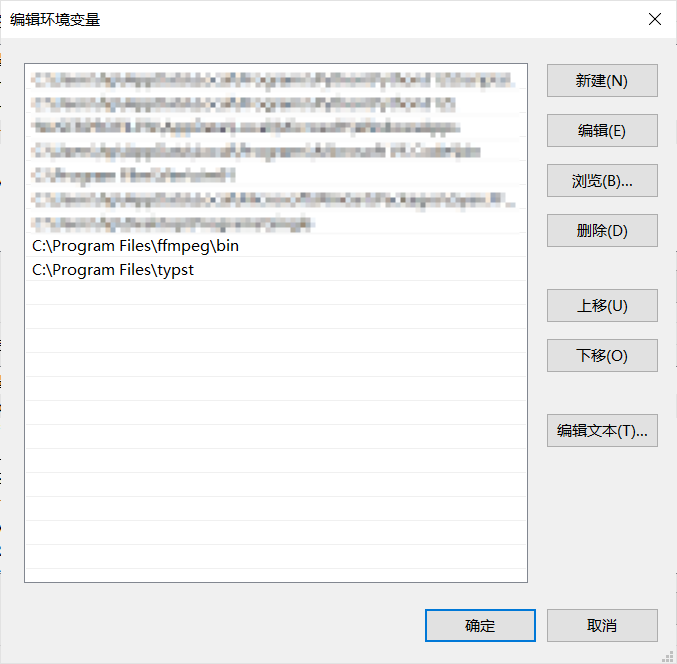
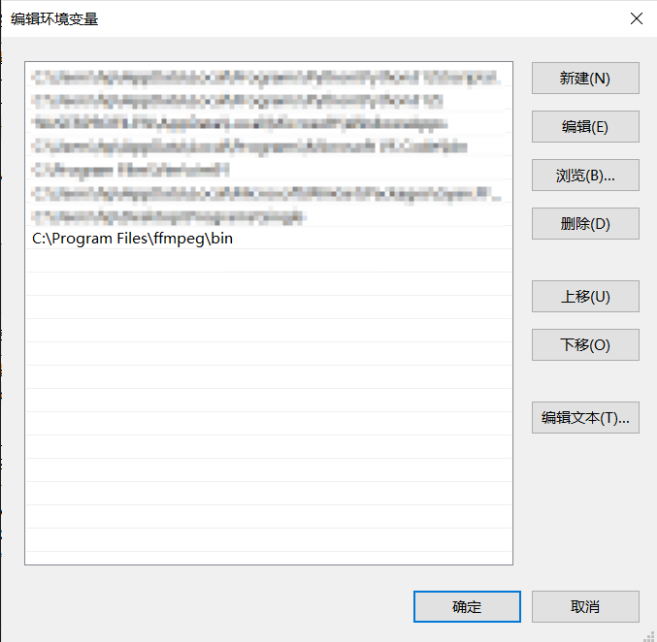
docs: update `installation.rst`

diff --git a/doc/source/installation.rst b/doc/source/installation.rst
@@ -123,11 +123,6 @@
 
     但值得注意的是，使用 GUI 界面预览动画效果并不依赖 FFmpeg，只有在最后导出视频时才需要 FFmpeg，因此你完全可以先上手体验 JAnim，等需要输出视频的时候再另行安装。
 
--   当需要书写公式或高级排版时，在 JAnim 中我们会用到 `Typst <https://github.com/typst/typst/releases>`_ 。
-
-    Typst 已经集成到 JAnim 的安装中了（基于 `typst-py <https://github.com/messense/typst-py>`_ 包），因此不需要另外安装。
-    但是，如果你有使用外部 Typst 可执行文件的需求，这里也提供了外部 Typst 的安装方法。
-
 -   对于 Linux，可能还需要另外安装 ``portaudio19-dev``，详见下方 Linux 标签页中的介绍。
 
 .. tabs::
@@ -138,7 +133,7 @@
 
         包管理器有很多选择，一般来说 Windows 应该自带一个 Winget，也可以使用 `Chocolatey <https://community.chocolatey.org/>`_ 或者 `Scoop <https://scoop.sh/>`_。三者只需安装一种，不过多装的话也没什么冲突。
 
-        安装完包管理器（或者自带 Winget），以 Winget 为例，按 ``Win + R`` 输入 ``powershell`` 或者在开始菜单中输入 powershell 打开 Powershell，输入 ``winget install typst`` 以及 ``winget install ffmpeg`` 即可完成安装。其他两种也是同理。
+        安装完包管理器（或者自带 Winget），以 Winget 为例，按 ``Win + R`` 输入 ``powershell`` 或者在开始菜单中输入 powershell 打开 Powershell，输入 ``winget install ffmpeg`` 即可完成安装。其他两种也是同理。
 
         .. tip::
 
@@ -150,15 +145,13 @@
 
         首先安装 FFmpeg。点击 https://www.gyan.dev/ffmpeg/builds/ffmpeg-git-full.7z 下载压缩包，解压，将 ``ffmpeg-`` 开头的文件夹移到适当的位置（例如 ``C:\\Program Files``），把该文件夹改名为 ``ffmpeg``。
 
-        然后安装 Typst。点击 https://github.com/typst/typst/releases/latest/download/typst-x86_64-pc-windows-msvc.zip 下载压缩包（如果网络错误可以反复尝试几次），解压，将 ``typst-x86_64-pc-windows-msvc`` 移到适当的位置，把该文件夹改名为 ``typst``。
-
-        最后添加环境变量。如果使用的是 Windows 11，可以按“Windows 徽标”键或者点击“开始”按钮，输入“环境变量”。（如果使用之前的版本可以右键此电脑 - 属性 - 高级系统设置）。点击“环境变量”，双击“用户变量”（或“系统变量”，任选其一）的“Path”，右键刚刚的 ``typst`` 文件夹并“复制文件地址”，在 Path 窗口（如下图）点击“新建”并把文件地址粘贴进去（注意不要带引号）。类似操作，将 ``ffmpeg\bin`` 也就是刚刚得到的 ffmpeg 下的 bin 文件夹的文件地址粘贴进去。
-
+        然后添加环境变量。如果使用的是 Windows 11，可以按“Windows 徽标”键或者点击“开始”按钮，输入“环境变量”。（如果使用之前的版本可以右键此电脑 - 属性 - 高级系统设置）。点击“环境变量”，双击“用户变量”（或“系统变量”，任选其一）的“Path”，右键刚刚的 ``ffmpeg`` 文件夹里的 ``bin`` 文件夹并“复制文件地址”，在 Path 窗口（如下图）点击“新建”并把文件地址粘贴进去（注意不要带引号）。
+        
         .. image:: /_static/images/envedit.png
             :align: center
             :scale: 80%
 
-        尝试一下有没有正确识别。在“开始”菜单输入并打开 PowerShell 或者 Cmd，运行 ``ffmpeg --version`` 和 ``typst --version``，输出版本号则安装成功。
+        尝试一下有没有正确识别。在“开始”菜单输入并打开 PowerShell 或者 Cmd，运行 ``ffmpeg --version`` ，输出版本号则安装成功。
 
     .. translatable-tab:: macOS
 
@@ -170,17 +163,13 @@
 
             /bin/bash -c "$(curl -fsSL https://raw.githubusercontent.com/Homebrew/install/HEAD/install.sh)"
 
-        接着便可以使用 Homebrew 安装 FFmpeg 和 Typst
+        接着便可以使用 Homebrew 安装 FFmpeg
 
         .. code-block:: bash
 
             # FFmpeg
             brew install ffmpeg
             ffmpeg --version    # 输出版本号则安装成功
-
-            # Typst
-            brew install typst
-            typst --version     # 输出版本号则安装成功
 
     .. translatable-tab:: Linux
 
@@ -194,16 +183,6 @@
             sudo apt update
             sudo apt install ffmpeg
             ffmpeg --version    # 输出版本号则安装成功
-
-        Typst 由于相对较新且未进入稳定版，直接从源代码仓库下载安装。
-
-        .. code-block:: bash
-
-            # Typst （参考 https://lindevs.com/install-typst-on-ubuntu）
-            wget -qO typst.tar.xz https://github.com/typst/typst/releases/latest/download/typst-x86_64-unknown-linux-musl.tar.xz
-            sudo tar xf typst.tar.xz --strip-components=1 -C /usr/local/bin typst-x86_64-unknown-linux-musl/typst
-            typst --version     # 输出版本号则安装成功
-            rm -rf typst.tar.xz
 
         另外，在 Linux 上使用 JAnim 窗口预览音频可能还需要安装 portaudio：
 